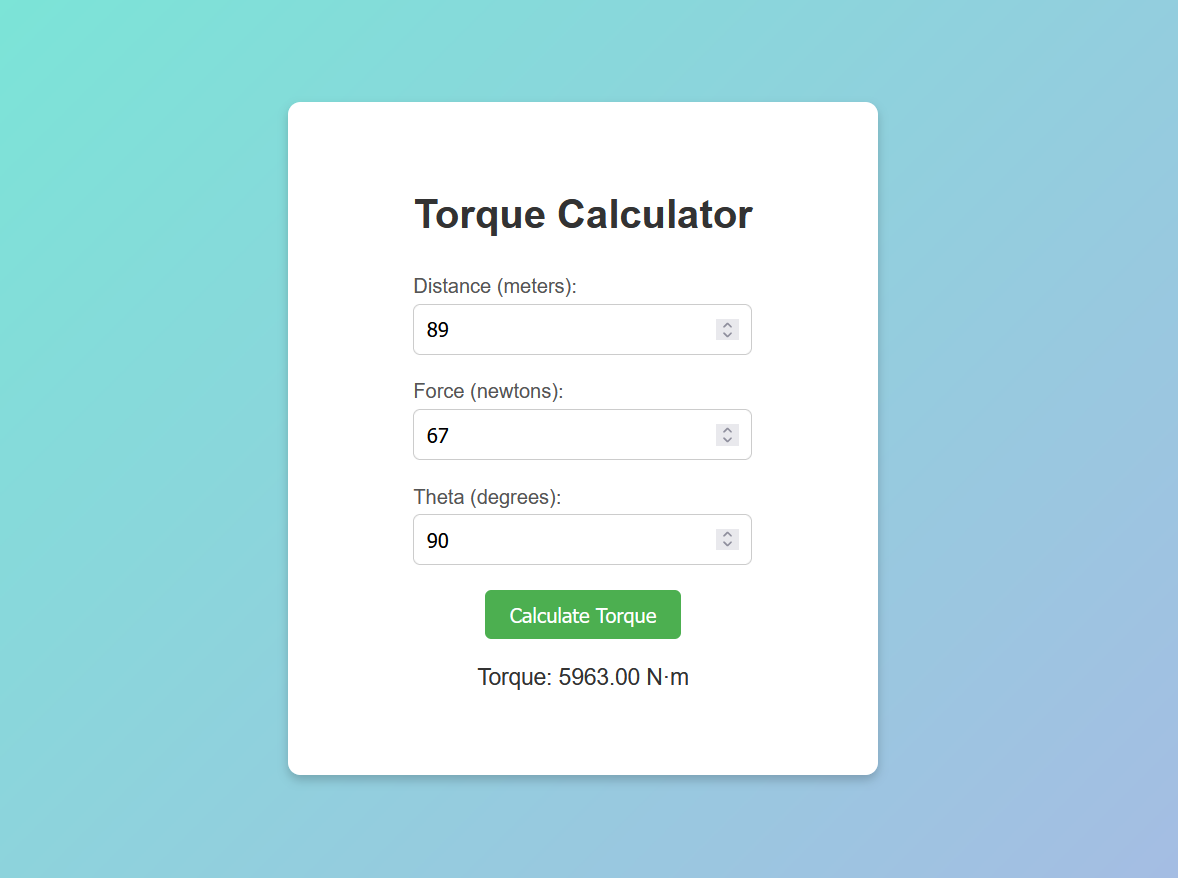
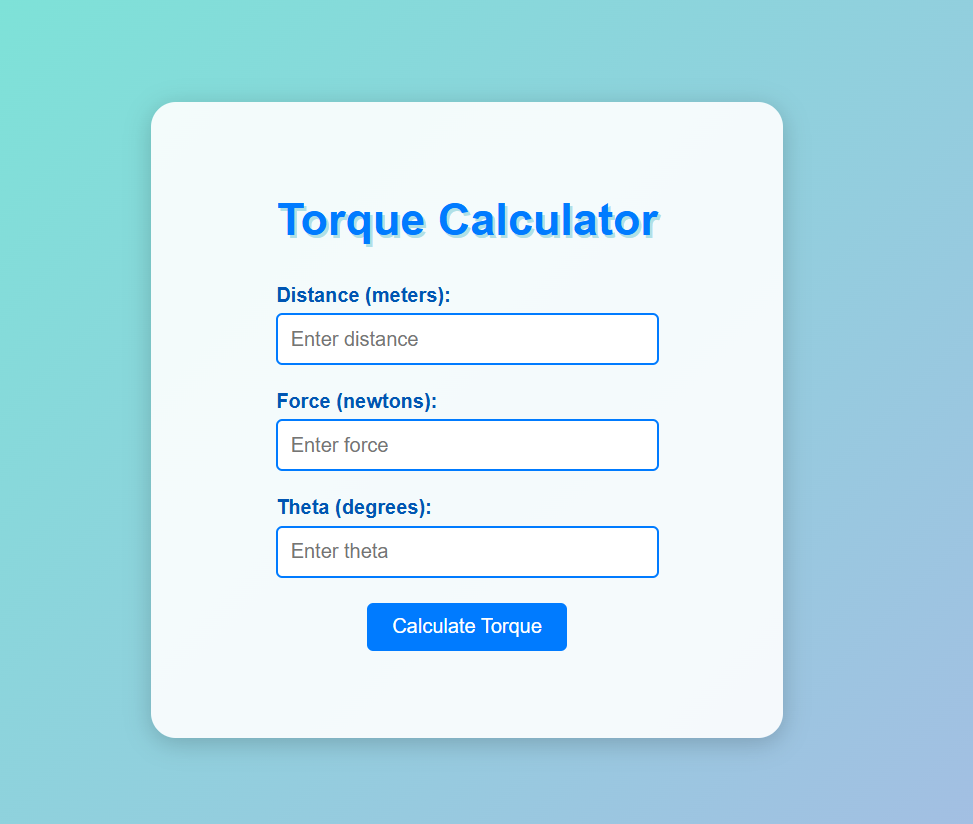
Updated style.css

diff --git a/Calculators/Torque-Calculator/style.css b/Calculators/Torque-Calculator/style.css
@@ -7,48 +7,74 @@ body {
     background: linear-gradient(135deg, #74ebd5, #ACB6E5);
     margin: 0;
 }
+
 .calculator-container {
-    background: #ffffff;
+    background: rgba(255, 255, 255, 0.9);
     padding: 50px 100px;
-    border-radius: 10px;
-    box-shadow: 0 4px 8px rgba(0, 0, 0, 0.2);
+    border-radius: 20px;
+    box-shadow: 0 4px 20px rgba(0, 0, 0, 0.2);
     text-align: center;
+    transition: transform 0.3s ease, box-shadow 0.3s ease;
 }
+
+.calculator-container:hover {
+    transform: translateY(-10px);
+    box-shadow: 0 8px 30px rgba(0, 0, 0, 0.3);
+}
+
 .calculator-container h1 {
     margin-bottom: 30px;
-    color: #333;
+    color: #007BFF;
+    font-size: 36px;
+    text-shadow: 2px 2px #B0E0E6;
 }
+
 .input-group {
     margin-bottom: 20px;
     text-align: left;
 }
+
 .input-group label {
     display: block;
     margin-bottom: 5px;
-    color: #555;
+    color: #0056b3;
+    font-weight: bold;
 }
+
 .input-group input {
     width: calc(100% - 22px);
     padding: 10px;
-    border: 1px solid #ccc;
+    border: 2px solid #007BFF;
     border-radius: 5px;
     font-size: 16px;
+    transition: border-color 0.3s ease, box-shadow 0.3s ease;
 }
+
+.input-group input:hover,
+.input-group input:focus {
+    border-color: #0056b3;
+    box-shadow: 0 0 10px rgba(0, 123, 255, 0.5);
+}
+
 button {
-    background-color: #4CAF50;
+    background-color: #007BFF;
     color: white;
     padding: 10px 20px;
     border: none;
     border-radius: 5px;
     cursor: pointer;
     font-size: 16px;
-    transition: background-color 0.3s ease;
+    transition: background-color 0.3s ease, transform 0.3s ease;
 }
+
 button:hover {
-    background-color: #45a049;
+    background-color: #0056b3;
+    transform: translateY(-5px);
 }
+
 #result {
     margin-top: 20px;
-    font-size: 18px;
-    color: #333;
+    font-size: 20px;
+    color: #007BFF;
+    font-weight: bold;
 }
